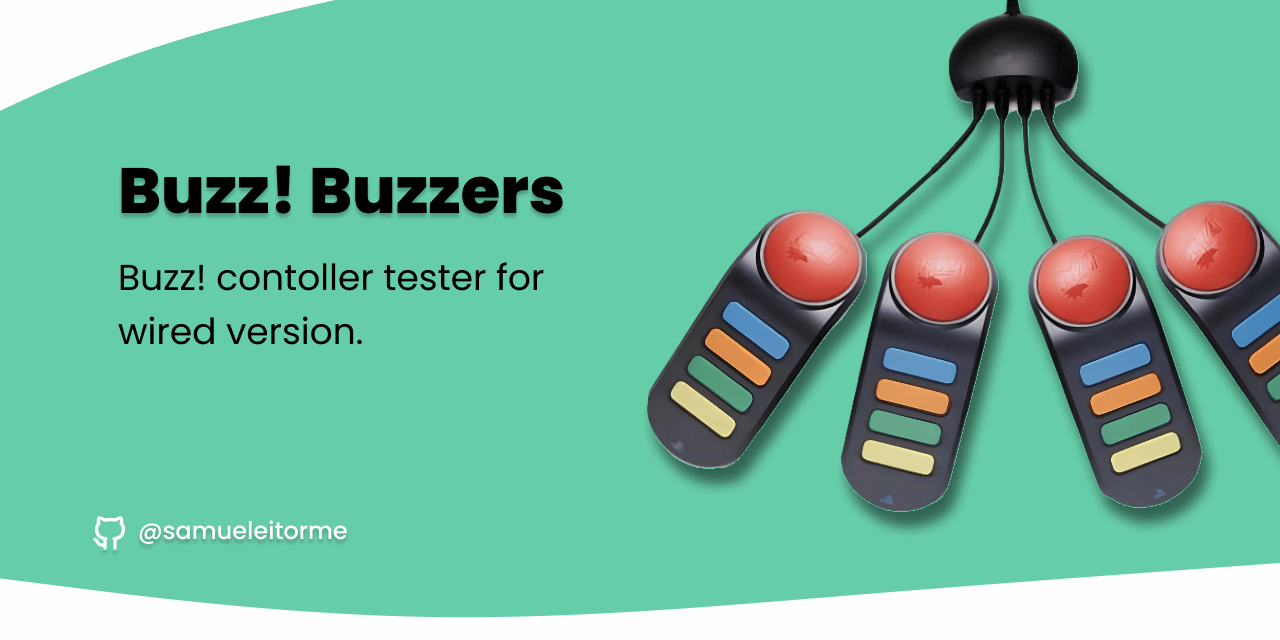
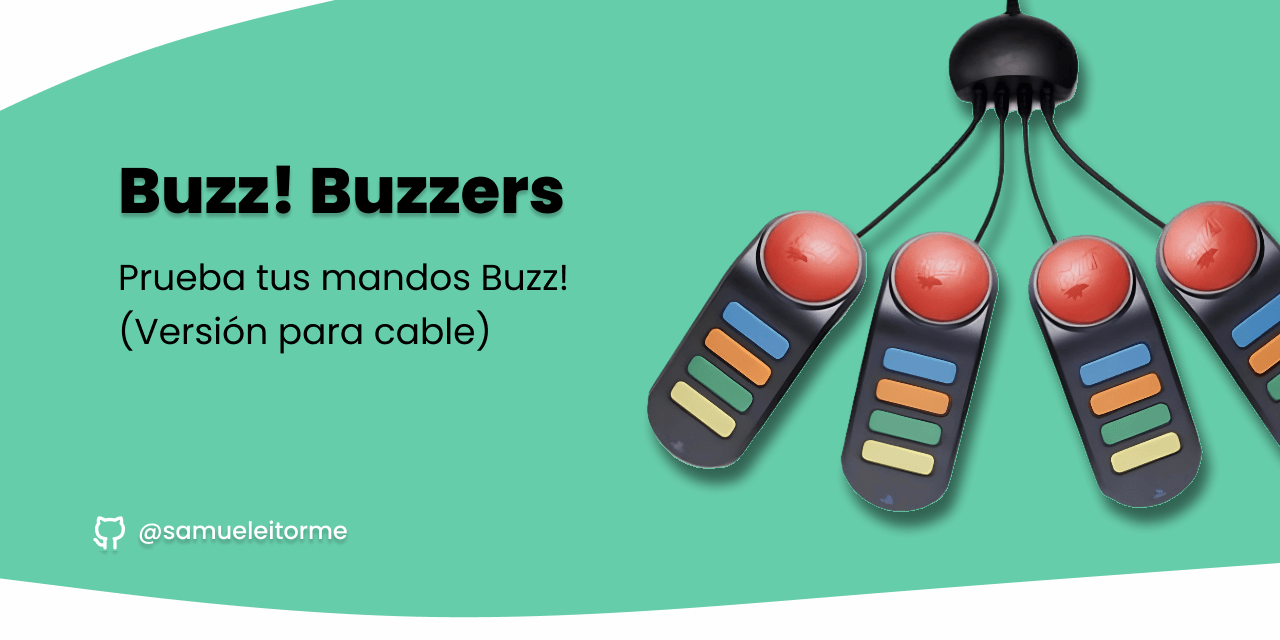
repo update

Changed region(s): [[0.0938, 0.4062, 0.4375, 0.4688], [0.0938, 0.5, 0.4062, 0.5625]]

diff --git a/README.md b/README.md
@@ -2,42 +2,37 @@
 
 ![Buzz Buzzers](./media/cover-image.png)
 
-Buzz Buzzers Test es una herramienta simple para comprobar el funcionamiento de los mandos de Buzz utilizando una conexión USB. 
-Los mandos de Buzz son controladores de trivia y buzzer utilizados en juegos interactivos. 
+Buzz Buzzers Test es una herramienta simple para comprobar el funcionamiento de los mandos de Buzz utilizando una conexión USB.
+Los mandos de Buzz son controladores de trivia y buzzer utilizados en juegos interactivos.
 Este proyecto proporciona una manera fácil y rápida de verificar si los mandos de Buzz están correctamente conectados y funcionando como se espera.
 
-## Características
+[Readme in English](README-EN.md)
 
-- **Comprobación rápida:** Buzz Buzzers Test permite verificar rápidamente si los mandos de Buzz están respondiendo correctamente.
-  
-- **Interfaz sencilla:** La interfaz de usuario minimalista hace que sea fácil entender los resultados de la prueba sin complicaciones innecesarias.
+## Requisitos
 
-- **Indicadores visuales:** Los resultados de las pruebas se muestran con indicadores visuales claros, lo que facilita la interpretación incluso para usuarios no técnicos.
+- Ordenador con puertos USB disponibles.
+- Mandos de Buzz.
 
 ## Cómo usar
 
-1. **Conexión de mandos:** Conecta los mandos de Buzz a un puerto USB de tu ordenador.
+1. Conecta los mandos de Buzz a un puerto USB de tu ordenador.
 
-2. **Ejecución del programa:** Abre la web [Buzz Buzzers Test](https://samueleitorme.github.io/buzz-buzzers-test/) en tu ordenador.
+2. Abre la web [Buzz Buzzers Test](https://samueleitorme.github.io/buzz-buzzers-test/) en tu ordenador.
 
-3. **Realizar la prueba:** Presiona los botones en los mandos de Buzz para ver si la aplicación detecta las pulsaciones. Los resultados se mostrarán en la pantalla.
+3. Presiona los botones en los mandos de Buzz para ver si la aplicación detecta las pulsaciones. Los resultados se mostrarán en la pantalla.
 
-4. **Interpretación de resultados:**
-   - Si un mando de Buzz es presionado y se muestra un indicador visual o un mensaje que confirma la detección, significa que el mando está funcionando correctamente.
-   - Si no se muestra ninguna reacción después de presionar los botones del mando, podría haber un problema de conexión o configuración.
-
-## Requisitos del sistema
-
-- Ordenador con puertos USB disponibles.
-- Mandos de Buzz conectados a través de USB.
+- Si un mando de Buzz es presionado y se muestra un indicador visual o un mensaje que confirma la detección, significa que el mando está funcionando correctamente.
+- Si no se muestra ninguna reacción después de presionar los botones del mando, podría haber un problema de conexión o configuración.
 
 ## Capturas de pantalla
 
 ![Captura 1](./media/Buzz-Connected.png)
-> Interfaz de usuario mostrando la detección exitosa de un mando de Buzz.
+
+> Detección exitosa de un mando de Buzz.
 
 ![Captura 2](./media/Buzz-Disconnected.png)
-> Interfaz de usuario sin detección después de presionar los botones del mando de Buzz.
+
+> Mando desconectado.
 
 ## Contribución
 

diff --git a/README-EN.md b/README-EN.md
@@ -1,0 +1,43 @@
+# Buzz Buzzers Test (en)
+
+![Buzz Buzzers](./media/cover-image_en.png)
+
+Buzz Buzzers Test is a simple tool to check the functionality of Buzz controllers using a USB connection. Buzz controllers are trivia and buzzer controllers used in interactive games. This project provides an easy and quick way to verify if the Buzz controllers are properly connected and functioning as expected.
+
+[Leeme en español](README-EN.md)
+
+## Requirements
+
+- Computer with available USB ports.
+- Buzz controller .
+
+## How to use
+
+1. Connect the Buzz controllers to a USB port on your computer.
+
+2. Open the [Buzz Buzzers Test](https://samueleitorme.github.io/buzz-buzzers-test/) web page on your computer.
+
+3. Press the buttons on the Buzz controllers to see if the application detects the button presses. The results will be displayed on the screen.
+
+
+- If a Buzz controller button is pressed, and a visual indicator or message confirms detection, it means the controller is working correctly.
+
+- If no reaction is displayed after pressing the controller buttons, there may be a connection or configuration issue.
+
+## Screenshots
+
+![Capture 1](./media/Buzz-Connected.png)
+
+> Successful detectio of a Buzz controller.
+
+![Capture 2](./media/Buzz-Disconnected.png)
+
+> Detection after pressing the Buzz controller buttons.
+
+## Notas
+
+This project is just a diagnostic tool.
+
+## Licencia
+
+This project is under the [GPLv3](./LICENSE).
